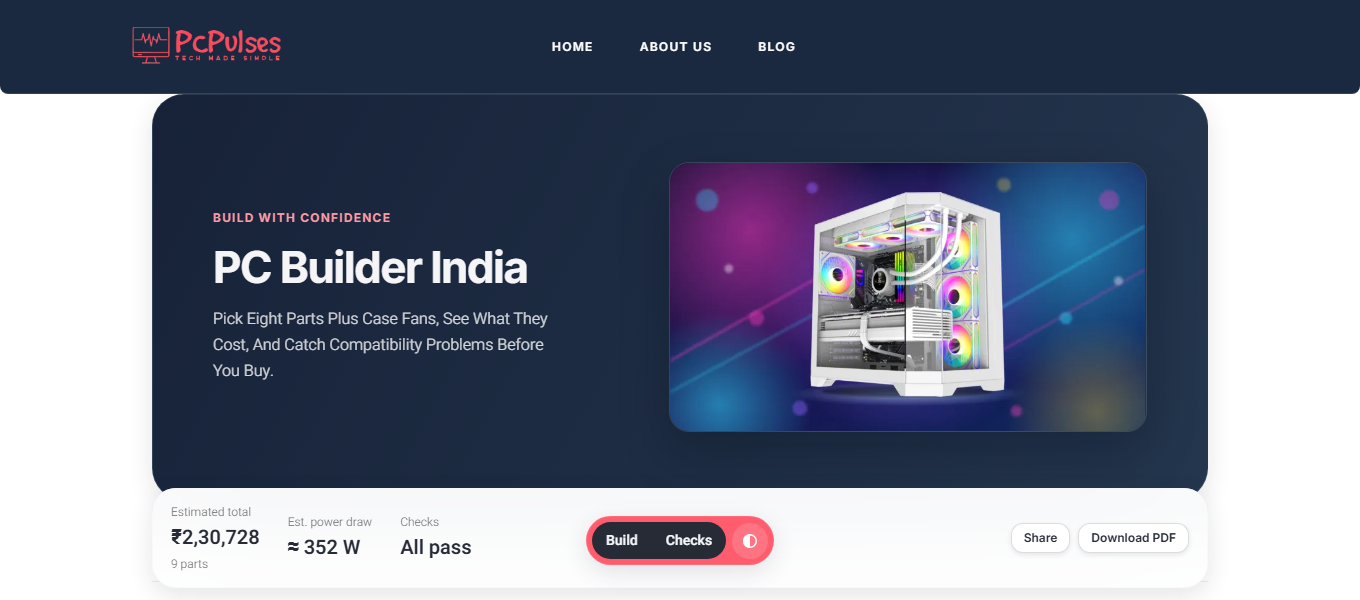
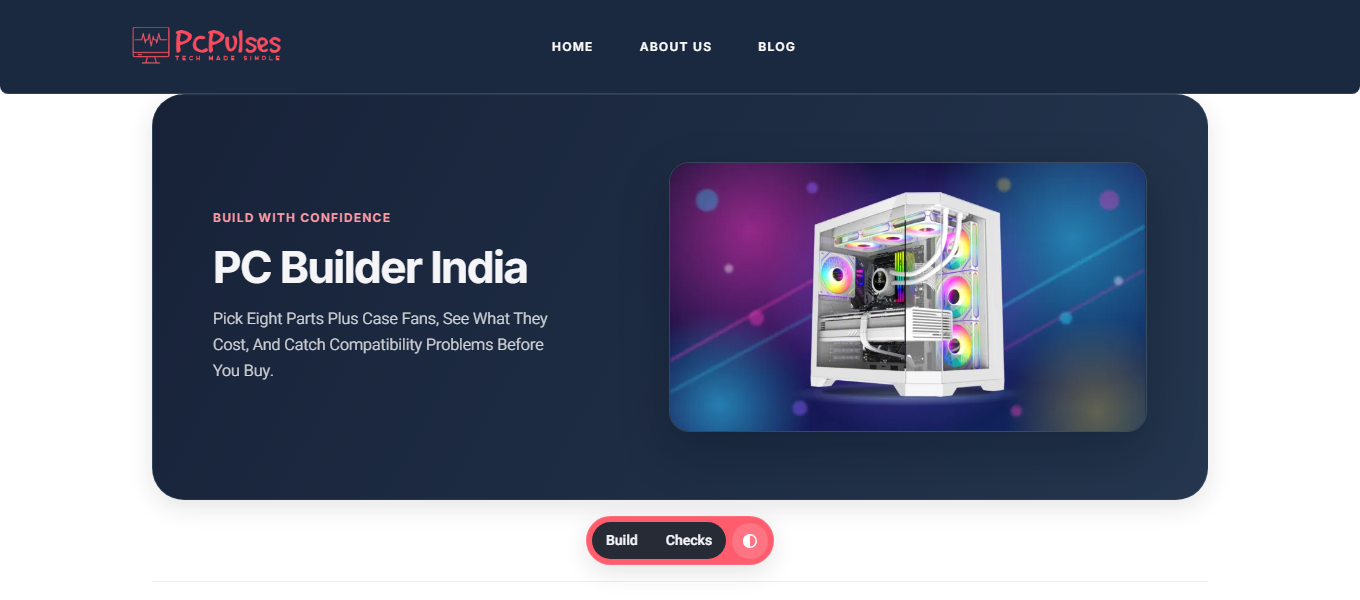
fix: prevent sticky bar overlap on short viewports

diff --git a/pc-builder-india/site-integration.css b/pc-builder-india/site-integration.css
@@ -937,3 +937,9 @@
 .page > .site-footer {
   margin-top: 16px;
 }
+
+@media (max-height: 680px) {
+  .page > .x-bar {
+    position: static;
+  }
+}
